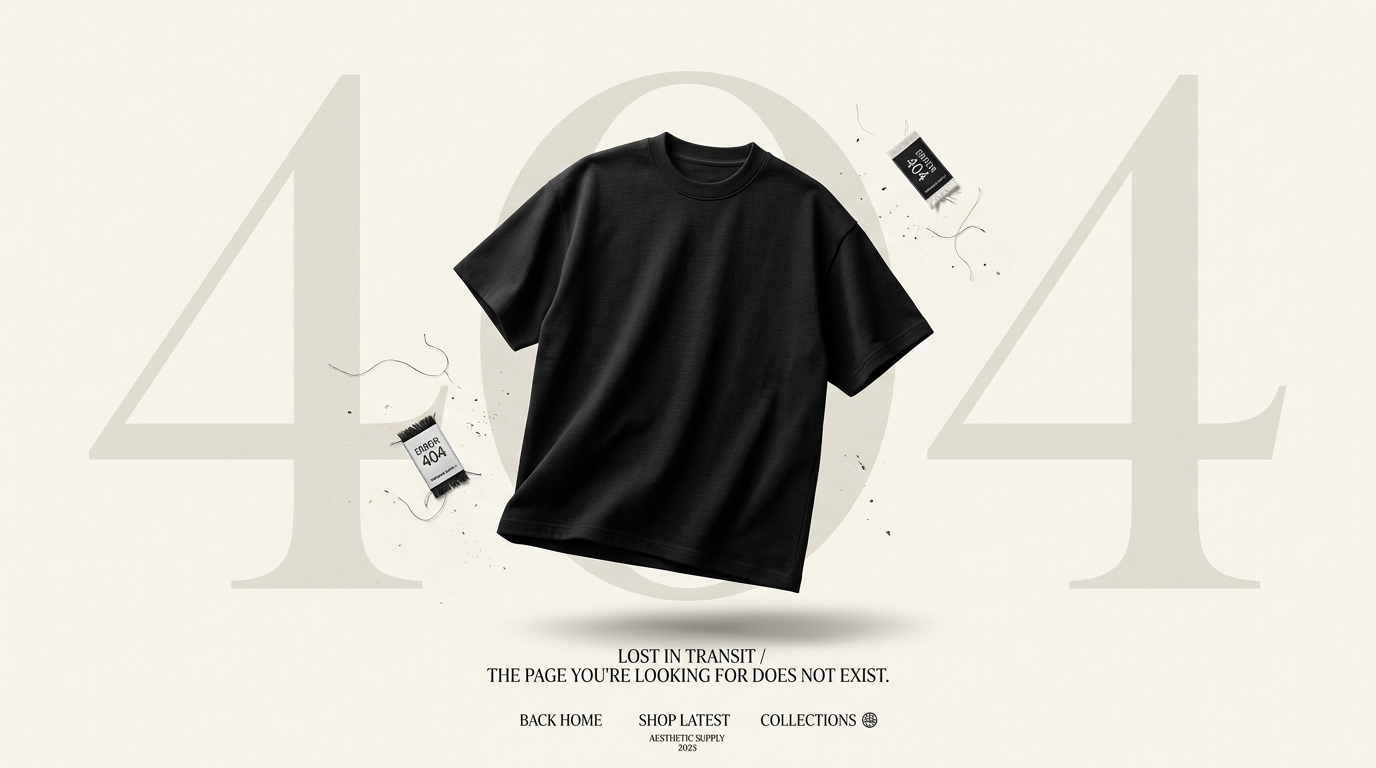
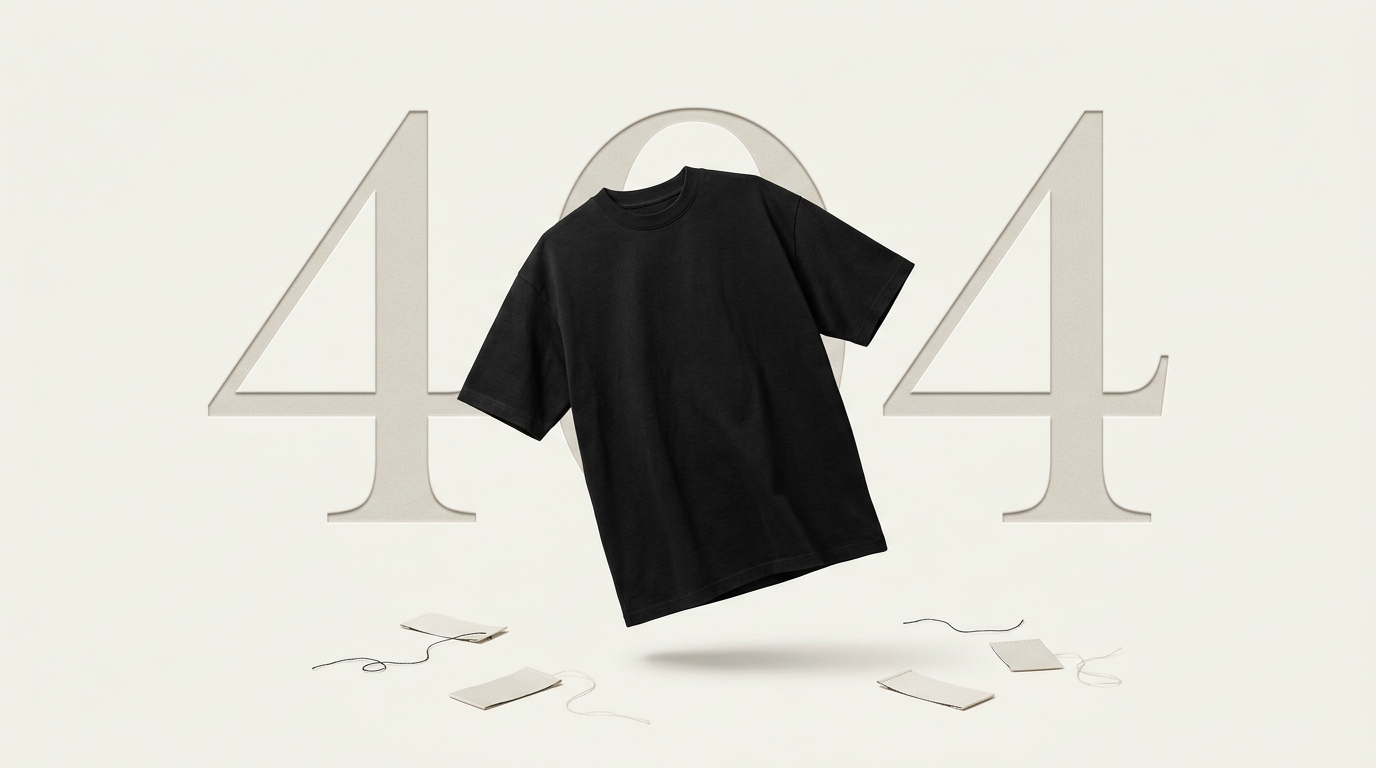
feat: seamless full screen 404 with clean text-free floating t-shirt visual

diff --git a/src/componets/page/NotFound.jsx b/src/componets/page/NotFound.jsx
@@ -1,7 +1,6 @@
-import { Link } from 'react-router-dom';
-import { FiArrowLeft, FiShoppingBag, FiSearch, FiCompass } from 'react-icons/fi';
+import { Link, useNavigate } from 'react-router-dom';
+import { FiArrowLeft, FiShoppingBag, FiSearch } from 'react-icons/fi';
 import { useState } from 'react';
-import { useNavigate } from 'react-router-dom';
 
 function NotFound() {
   const [searchQuery, setSearchQuery] = useState('');
@@ -15,92 +14,88 @@ function NotFound() {
   };
 
   return (
-    <div className="w-full min-h-screen bg-[#f7f5f0] text-[#1a1a1a] flex flex-col justify-between selection:bg-black selection:text-white font-sans relative overflow-x-hidden">
+    <div className="w-full min-h-screen bg-[#f5f3ee] text-[#1a1a1a] flex flex-col justify-between selection:bg-black selection:text-white font-sans relative overflow-hidden">
       
-      {/* 1. TOP EDITORIAL HEADER BAR */}
-      <header className="relative z-30 pt-6 md:pt-8 px-6 md:px-12 max-w-7xl mx-auto w-full flex justify-between items-center">
+      {/* 1. SEAMLESS FULL-SCREEN BACKGROUND ARTWORK */}
+      <div className="absolute inset-0 z-0 flex items-center justify-center pointer-events-none">
+        <img
+          src="/404-luxury-editorial.jpg"
+          alt="Vakrayan 404 Visual"
+          className="w-full h-full object-cover object-center select-none"
+        />
+        {/* Soft Edge Blending Gradients to ensure 100% full screen fluid match */}
+        <div className="absolute inset-0 bg-radial from-transparent via-[#f5f3ee]/20 to-[#f5f3ee]/60 pointer-events-none" />
+        <div className="absolute inset-x-0 top-0 h-32 bg-gradient-to-b from-[#f5f3ee]/80 to-transparent pointer-events-none" />
+        <div className="absolute inset-x-0 bottom-0 h-44 bg-gradient-to-t from-[#f5f3ee] via-[#f5f3ee]/80 to-transparent pointer-events-none" />
+      </div>
+
+      {/* 2. TOP MINIMAL LUXURY HEADER */}
+      <header className="relative z-20 pt-6 md:pt-8 px-6 md:px-12 max-w-7xl mx-auto w-full flex justify-between items-center">
         <Link to="/" className="text-xl md:text-2xl font-serif font-black tracking-[0.35em] uppercase text-black hover:opacity-75 transition-opacity">
           VAKRAYAN
         </Link>
-        <div className="flex items-center gap-4">
-          <span className="hidden sm:inline-block font-mono text-[11px] uppercase tracking-[0.25em] text-[#737373]">
-            EDITION // UNTRACKED
+        <div className="flex items-center gap-3">
+          <span className="hidden sm:inline-block font-mono text-[11px] uppercase tracking-[0.25em] text-[#737373] bg-white/70 px-3 py-1 rounded-full backdrop-blur-xs border border-black/10">
+            PIECE NOT FOUND
           </span>
-          <Link
-            to="/shop"
-            className="text-[11px] font-mono font-bold tracking-widest uppercase px-4 py-1.5 rounded-full border border-black/20 hover:bg-black hover:text-white transition-all cursor-pointer"
-          >
-            Vault Archive
-          </Link>
         </div>
       </header>
 
-      {/* 2. CENTER EDITORIAL ARTWORK HERO */}
-      <main className="relative z-20 my-auto flex flex-col items-center justify-center px-4 py-6 max-w-5xl mx-auto w-full text-center">
+      {/* 3. CENTER SPACER (Leaves the T-Shirt, 404, and Tags completely unobstructed) */}
+      <div className="relative z-10 flex-1 flex items-center justify-center pointer-events-none" />
+
+      {/* 4. BOTTOM INTERACTIVE CONTROLS & NAVIGATION */}
+      <main className="relative z-20 pb-8 px-4 max-w-xl mx-auto w-full text-center space-y-4">
         
-        {/* Luxury Editorial Image Container with Soft Floating Animation */}
-        <div className="relative w-full max-w-[780px] rounded-2xl overflow-hidden shadow-[0_20px_50px_rgba(0,0,0,0.06)] border border-black/5 bg-[#f5f3ee] animate-fade-in group">
-          <img
-            src="/404-luxury-editorial.jpg"
-            alt="Vakrayan 404 Luxury Streetwear Editorial"
-            className="w-full h-auto object-cover select-none pointer-events-none transform transition-transform duration-700 group-hover:scale-[1.01]"
-            loading="eager"
-          />
-
-          {/* Subtle Ambient Light Overlay */}
-          <div className="absolute inset-0 bg-gradient-to-t from-[#f7f5f0]/80 via-transparent to-transparent opacity-60 pointer-events-none" />
-        </div>
-
-        {/* Sophisticated Editorial Subtext */}
-        <div className="mt-4 md:mt-6 space-y-2 max-w-md mx-auto">
-          <p className="text-xs md:text-sm font-serif italic text-[#404040] tracking-wide">
-            "Looks like this piece is sold out or untraceable in the current drop."
+        {/* Editorial Subtext */}
+        <div className="space-y-1">
+          <p className="text-xs md:text-sm font-serif italic text-[#333333] tracking-wide">
+            Looks like this piece is sold out or untraceable in the current drop.
           </p>
         </div>
 
-        {/* Instant Search Bar */}
-        <form onSubmit={handleSearch} className="mt-6 max-w-md w-full mx-auto relative flex items-center">
+        {/* Floating Search Bar */}
+        <form onSubmit={handleSearch} className="max-w-md w-full mx-auto relative flex items-center shadow-lg rounded-full">
           <input
             type="text"
             value={searchQuery}
             onChange={(e) => setSearchQuery(e.target.value)}
-            placeholder="Search oversized tees, anime drops..."
-            className="w-full bg-white border border-black/15 focus:border-black rounded-full py-3.5 pl-12 pr-28 text-xs text-black placeholder-[#8c8c8c] tracking-wide outline-none shadow-sm transition-all"
+            placeholder="Search drops, oversized tees..."
+            className="w-full bg-white/90 backdrop-blur-md border border-black/15 focus:border-black rounded-full py-3 pl-11 pr-24 text-xs text-black placeholder-[#8c8c8c] tracking-wide outline-none transition-all"
           />
-          <FiSearch className="absolute left-4.5 text-[#737373] text-sm pointer-events-none" />
+          <FiSearch className="absolute left-4 text-[#737373] text-sm pointer-events-none" />
           <button
             type="submit"
-            className="absolute right-1.5 px-4 py-2 bg-black hover:bg-neutral-800 text-white font-bold text-[11px] tracking-widest uppercase rounded-full transition-all cursor-pointer"
+            className="absolute right-1 px-4 py-2 bg-black hover:bg-neutral-800 text-white font-bold text-[11px] tracking-widest uppercase rounded-full transition-all cursor-pointer"
           >
-            Find
+            Search
           </button>
         </form>
 
-        {/* Quick Editorial Action Links */}
-        <div className="mt-8 flex flex-wrap items-center justify-center gap-4 text-xs font-mono tracking-widest uppercase">
+        {/* Minimal Buttons */}
+        <div className="flex items-center justify-center gap-3 pt-2">
           <Link
             to="/"
-            className="inline-flex items-center gap-2 px-6 py-3 bg-black hover:bg-neutral-800 text-white font-bold rounded-full shadow-md hover:scale-105 active:scale-95 transition-all cursor-pointer"
+            className="inline-flex items-center gap-2 px-6 py-2.5 bg-black hover:bg-neutral-800 text-white font-bold text-xs tracking-wider uppercase rounded-full shadow-md hover:scale-105 active:scale-95 transition-all cursor-pointer"
           >
             <FiArrowLeft className="text-sm" />
-            Return Home
+            Back to Home
           </Link>
 
           <Link
             to="/shop"
-            className="inline-flex items-center gap-2 px-6 py-3 bg-white hover:bg-black hover:text-white text-black font-bold rounded-full border border-black/20 shadow-xs transition-all cursor-pointer"
+            className="inline-flex items-center gap-2 px-6 py-2.5 bg-white/90 hover:bg-black hover:text-white text-black font-bold text-xs tracking-wider uppercase rounded-full border border-black/20 backdrop-blur-md shadow-sm transition-all cursor-pointer"
           >
             <FiShoppingBag className="text-sm" />
-            Shop Latest Drops
+            Explore Vault
           </Link>
         </div>
 
       </main>
 
-      {/* 3. BOTTOM EDITORIAL FOOTER */}
-      <footer className="relative z-30 py-6 px-6 max-w-7xl mx-auto w-full flex flex-col sm:flex-row justify-between items-center text-[10px] font-mono tracking-[0.25em] text-[#737373] uppercase border-t border-black/5 gap-2">
-        <span>VAKRAYAN PREMIUM APPAREL</span>
-        <span>AESTHETIC ARCHIVE • 2026</span>
+      {/* 5. MINIMAL BOTTOM BRAND FOOTER */}
+      <footer className="relative z-20 pb-4 px-6 text-center text-[10px] font-mono tracking-[0.25em] text-[#8c8c8c] uppercase pointer-events-none">
+        VAKRAYAN LUXURY STREETWEAR • 2026
       </footer>
 
     </div>
